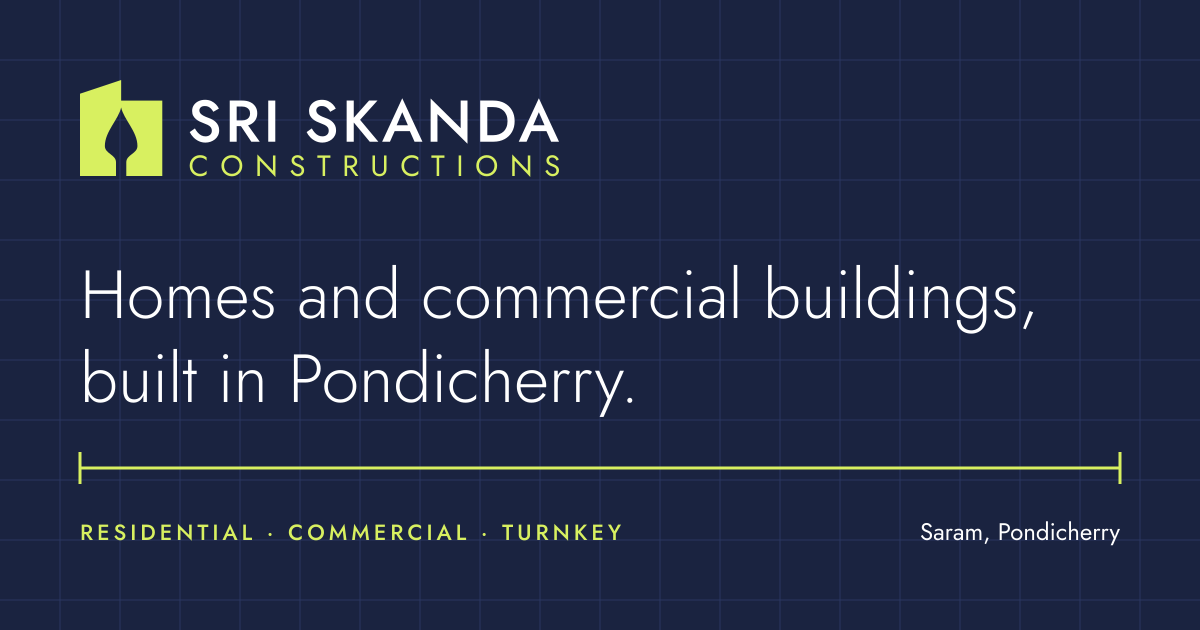
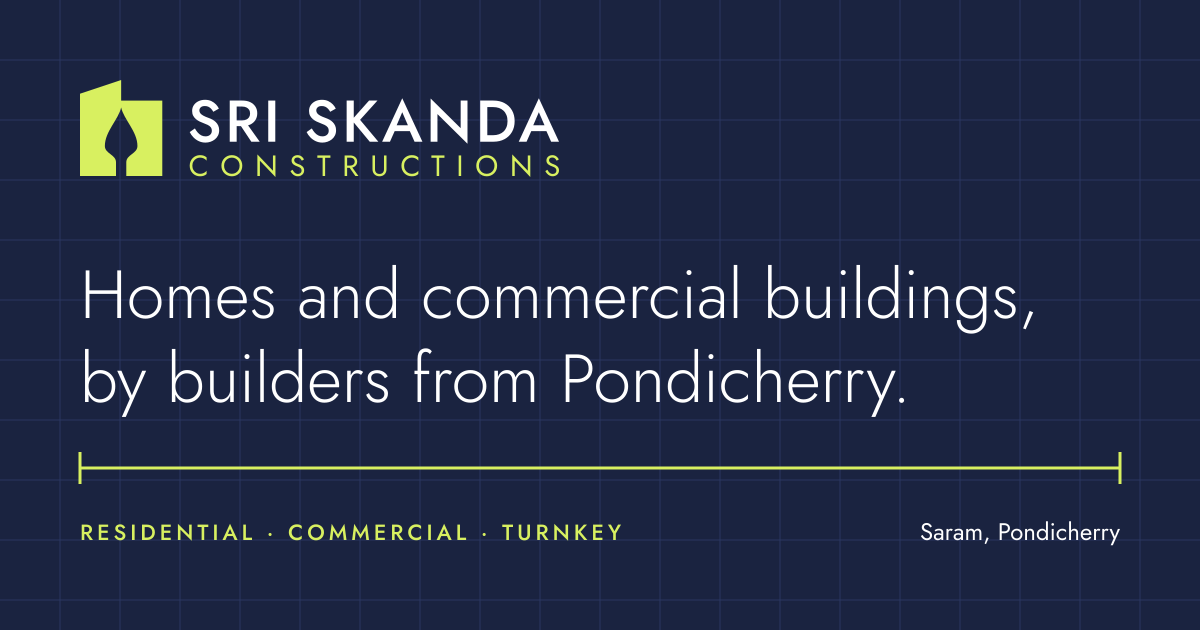
fix: say the builders are from Pondicherry, not that the work is only in Pondicherry

Changed region(s): [[0.0925, 0.5429, 0.74, 0.6635]]

diff --git a/src/lib/seo.ts b/src/lib/seo.ts
@@ -7,7 +7,7 @@ export const OG_IMAGE = {
   url: "/brand/og/og-default.png",
   width: 1200,
   height: 630,
-  alt: "Sri Skanda Constructions: homes and commercial buildings, built in Pondicherry",
+  alt: "Sri Skanda Constructions: homes and commercial buildings, by builders from Pondicherry",
 };
 
 /** Metadata for one page: title, description, canonical URL and share card. */
@@ -90,7 +90,7 @@ export function businessJsonLd() {
           })),
         }
       : {}),
-    areaServed: site.areaServed.map((name) => ({ "@type": "Place", name })),
+    ...(site.areaServed.length ? { areaServed: site.areaServed.map((name) => ({ "@type": "Place", name })) } : {}),
     ...(sameAs.length ? { sameAs } : {}),
     hasOfferCatalog: {
       "@type": "OfferCatalog",
@@ -102,7 +102,7 @@ export function businessJsonLd() {
           name: tr(s.name),
           description: tr(s.summary),
           url: `${site.url}/services/${s.slug}`,
-          areaServed: site.areaServed,
+          ...(site.areaServed.length ? { areaServed: site.areaServed } : {}),
           provider: { "@id": `${site.url}/#business` },
         },
       })),
@@ -120,7 +120,7 @@ export function serviceJsonLd(slug: string) {
     description: tr(s.summary),
     url: `${site.url}/services/${s.slug}`,
     serviceType: tr(s.name),
-    areaServed: site.areaServed.map((name) => ({ "@type": "Place", name })),
+    ...(site.areaServed.length ? { areaServed: site.areaServed.map((name) => ({ "@type": "Place", name })) } : {}),
     provider: { "@id": `${site.url}/#business`, "@type": "GeneralContractor", name: site.name, address: fullAddress() },
   };
 }

diff --git a/scripts/export-brand.ts b/scripts/export-brand.ts
@@ -345,7 +345,7 @@ function wrap(str: string, size: number, max: number): string[] {
 
 /** Share images for the main pages and each service, in public/brand/og. */
 const SHARE_PAGES: { file: string; title: string }[] = [
-  { file: "services", title: "Construction services in Pondicherry." },
+  { file: "services", title: "Construction services, by builders from Pondicherry." },
   { file: "process", title: "How a building gets built, stage by stage." },
   { file: "estimate", title: "Get a free construction estimate." },
   { file: "contact", title: "Plan your build with us." },
@@ -356,7 +356,7 @@ const SHARE_PAGES: { file: string; title: string }[] = [
 async function exportOg() {
   console.log("Social image");
   write(join(OUT, "og", "og-template.svg"), ogSvg(null) + "\n");
-  const filled = ogSvg(["Homes and commercial buildings,", "built in Pondicherry."]);
+  const filled = ogSvg(["Homes and commercial buildings,", "by builders from Pondicherry."]);
   write(join(OUT, "og", "og-default.svg"), filled + "\n");
   write(join(OUT, "og", "og-default.png"), await png(filled, 1200, 630));
   for (const page of SHARE_PAGES) {

diff --git a/src/app/layout.tsx b/src/app/layout.tsx
@@ -20,9 +20,9 @@ const dmMono = DM_Mono({
   preload: false,
 });
 
-const TITLE = "Sri Skanda Constructions | House and commercial construction in Pondicherry";
+const TITLE = "Sri Skanda Constructions | House and commercial builders from Pondicherry";
 const DESCRIPTION =
-  "Residential and commercial builder in Saram, Pondicherry. Custom homes, villas, apartments, offices and showrooms, planned with Vastu and built from foundation to finishing.";
+  "Residential and commercial builders from Saram, Pondicherry. Custom homes, villas, apartments, offices and showrooms, planned with Vastu and built from foundation to finishing.";
 
 export const metadata: Metadata = {
   metadataBase: new URL(site.url),

diff --git a/src/app/(site)/services/page.tsx b/src/app/(site)/services/page.tsx
@@ -11,9 +11,9 @@ import { whatsappUrl } from "@content/site";
 import { ui } from "@content/ui";
 
 export const metadata: Metadata = pageMeta({
-  title: "Construction services in Pondicherry",
+  title: "Construction services by builders from Pondicherry",
   description:
-    "House construction, commercial buildings, Vastu consultation, 2D and 3D planning, renovation and turnkey projects in Pondicherry, by one team from foundation to finishing.",
+    "House construction, commercial buildings, Vastu consultation, 2D and 3D planning, renovation and turnkey projects, by one Pondicherry-based team from foundation to finishing.",
   path: "/services",
   image: "services",
 });

diff --git a/src/app/(site)/estimate/page.tsx b/src/app/(site)/estimate/page.tsx
@@ -6,9 +6,9 @@ import { tr } from "@content/i18n";
 import { ui } from "@content/ui";
 
 export const metadata: Metadata = pageMeta({
-  title: "Free construction estimate in Pondicherry",
+  title: "Free construction estimate from Pondicherry builders",
   description:
-    "Get a free estimate for building a house or commercial building in Pondicherry. Enter the built-up area, floors, project type and finish, and we reply on WhatsApp.",
+    "Get a free estimate for a house or commercial building from Sri Skanda Constructions, Pondicherry. Enter the built-up area, floors, project type and finish, and we reply on WhatsApp.",
   path: "/estimate",
   image: "estimate",
 });

diff --git a/src/app/(site)/about/page.tsx b/src/app/(site)/about/page.tsx
@@ -10,9 +10,9 @@ import { addressLines, mapLinks, site, whatsappUrl } from "@content/site";
 import { ui } from "@content/ui";
 
 export const metadata: Metadata = pageMeta({
-  title: "About Sri Skanda Constructions, builders in Pondicherry",
+  title: "About Sri Skanda Constructions, builders from Pondicherry",
   description:
-    "Sri Skanda Constructions builds homes and commercial buildings in Pondicherry: Vastu-led planning and turnkey delivery by one team.",
+    "Sri Skanda Constructions, from Pondicherry, builds homes and commercial buildings: Vastu-led planning and turnkey delivery by one team.",
   path: "/about",
   image: "about",
 });

diff --git a/src/app/(site)/process/page.tsx b/src/app/(site)/process/page.tsx
@@ -12,7 +12,7 @@ import { ui } from "@content/ui";
 export const metadata: Metadata = pageMeta({
   title: "How we build: from consultation to handover",
   description:
-    "The build journey with Sri Skanda Constructions in Pondicherry: consultation, site visit and soil test, design and Vastu, plan approval, agreement and BOQ, construction, quality checks and handover.",
+    "The build journey with Sri Skanda Constructions, builders from Pondicherry: consultation, site visit and soil test, design and Vastu, plan approval, agreement and BOQ, construction, quality checks and handover.",
   path: "/process",
   image: "process",
 });

diff --git a/content/site.ts b/content/site.ts
@@ -102,7 +102,11 @@ export const site: SiteConfig = {
   // { days: ["Monday", "Tuesday", "Wednesday", "Thursday", "Friday", "Saturday"], opens: "09:00", closes: "18:00" }
   openingHours: [],
 
-  areaServed: ["Pondicherry"],
+  // Where the company takes on work, for search engines. Left empty so the
+  // site does not say the work is limited to Pondicherry: the office is in
+  // Pondicherry, the work is not confined to it.
+  // TODO(client): list the real places, for example ["Pondicherry", "Tamil Nadu"].
+  areaServed: [],
 
   // TODO(client): paste the real profile URLs. Empty ones stay hidden.
   social: {

diff --git a/content/home.ts b/content/home.ts
@@ -7,7 +7,7 @@ import { en, type L } from "./i18n";
  *   "From the first stake to the house key."   (current)
  *   "Building Your Dreams"                      (the original headline)
  *   "Your plot, built right. Foundation to finishing."
- *   "Homes and businesses, built in Pondicherry."
+ *   "Homes and businesses, by builders from Pondicherry."
  */
 export const hero = {
   eyebrow: en("Saram, Pondicherry"),

diff --git a/src/app/(site)/projects/page.tsx b/src/app/(site)/projects/page.tsx
@@ -11,7 +11,7 @@ import { site, whatsappUrl } from "@content/site";
 import { ui } from "@content/ui";
 
 export const metadata: Metadata = pageMeta({
-  title: "Projects in Pondicherry",
+  title: "Projects by Sri Skanda Constructions",
   description: "Homes and commercial buildings by Sri Skanda Constructions, ongoing and completed.",
   path: "/projects",
   index: projects.length > 0,
